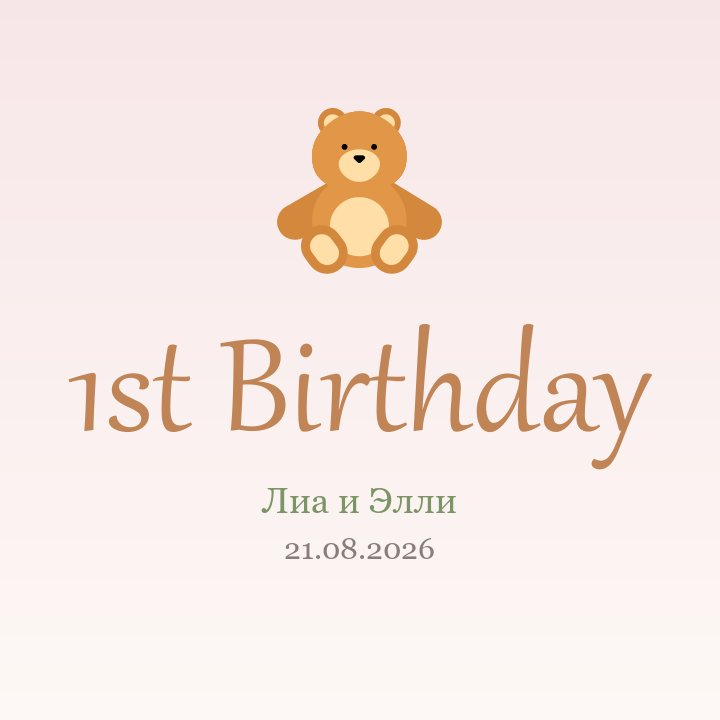
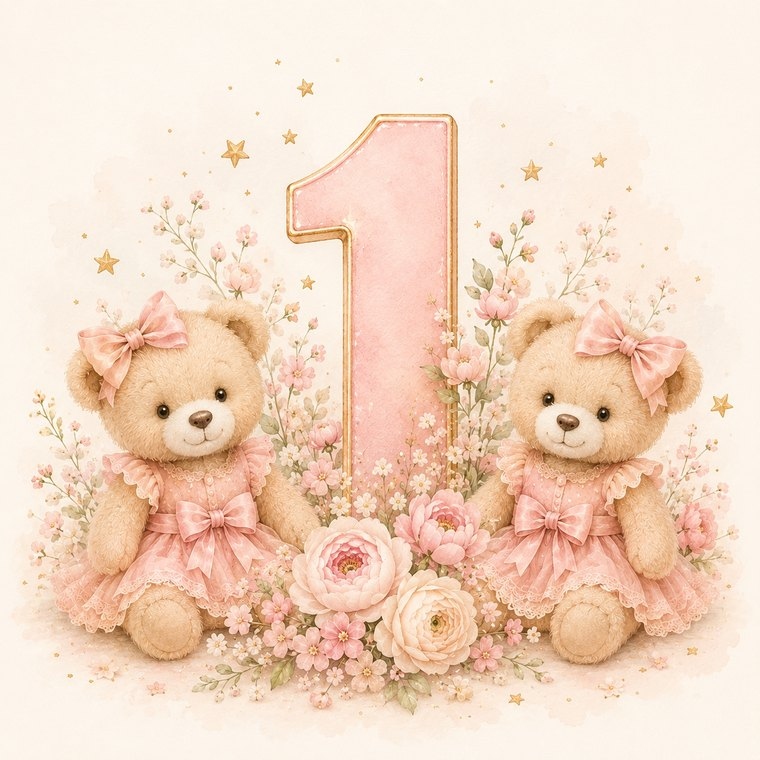
Lighten hero text bg to #fdf3ee; replace last timeline image with twin-bears watercolor

diff --git a/style.css b/style.css
@@ -171,7 +171,7 @@ body {
   margin: -40px -24px 36px;
   border-radius: var(--radius) var(--radius) 0 0;
   overflow: hidden;
-  background: #f5e3d0;
+  background: #fdf3ee;
 }
 
 /* full-bleed hero photo, floor blends into the cream text panel below */
@@ -191,14 +191,14 @@ body {
   right: 0;
   bottom: -1px;
   height: 32%;
-  background: linear-gradient(to bottom, rgba(245, 227, 208, 0) 0%, #f5e3d0 90%);
+  background: linear-gradient(to bottom, rgba(253, 243, 238, 0) 0%, #fdf3ee 90%);
   pointer-events: none;
 }
 
 /* ---- Text panel (styled to match the invitation reference) ---- */
 .hero-card {
   position: relative;
-  background: linear-gradient(to bottom, #f5e3d0 0%, #f5e3d0 78%, #fffdfc 100%);
+  background: linear-gradient(to bottom, #fdf3ee 0%, #fdf3ee 78%, #fffdfc 100%);
   text-align: center;
   padding: 2px 20px 34px;
   margin-top: -1px;

diff --git a/index.html b/index.html
@@ -11,7 +11,7 @@
 <link rel="preconnect" href="https://fonts.googleapis.com">
 <link rel="preconnect" href="https://fonts.gstatic.com" crossorigin>
 <link href="https://fonts.googleapis.com/css2?family=Cormorant+SC:wght@400;500;600;700&family=Caveat:wght@600;700&display=swap" rel="stylesheet">
-<link rel="stylesheet" href="style.css?v=6">
+<link rel="stylesheet" href="style.css?v=7">
 </head>
 <body>
 